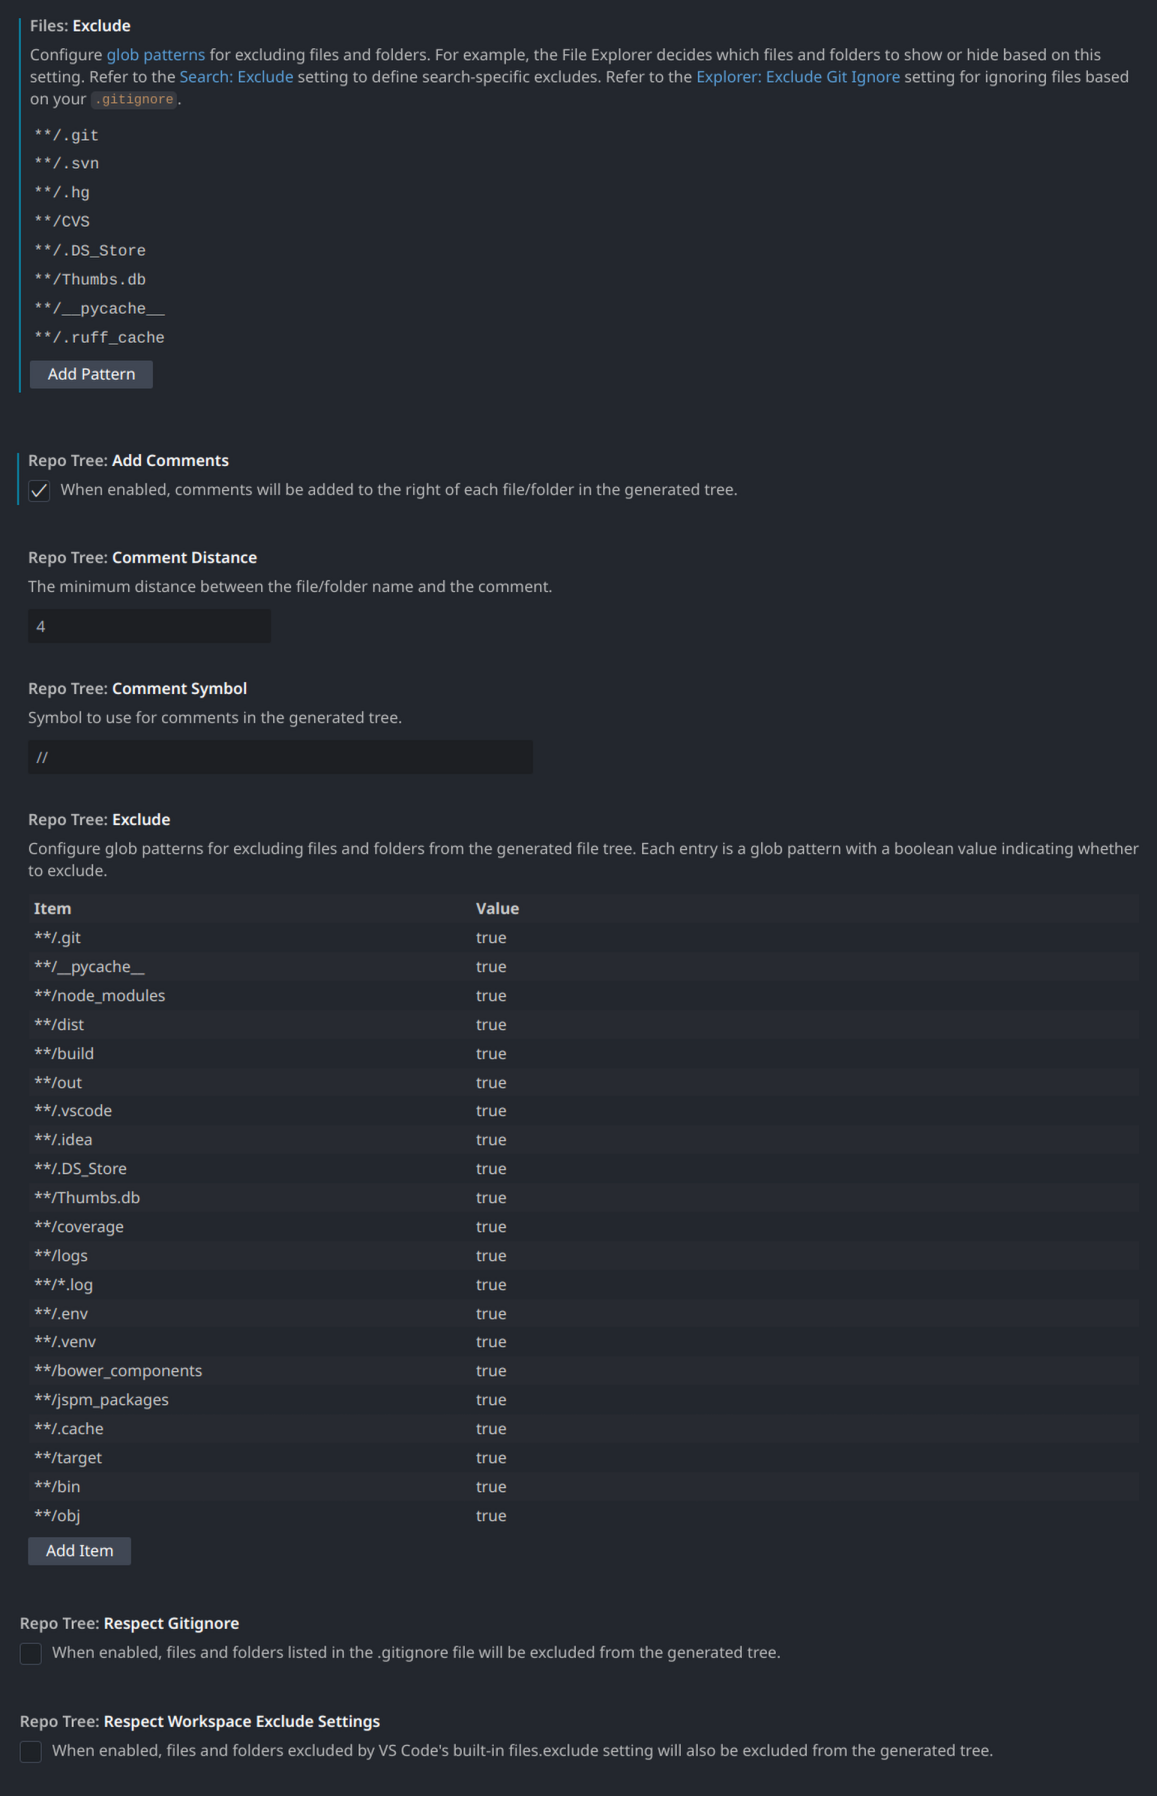
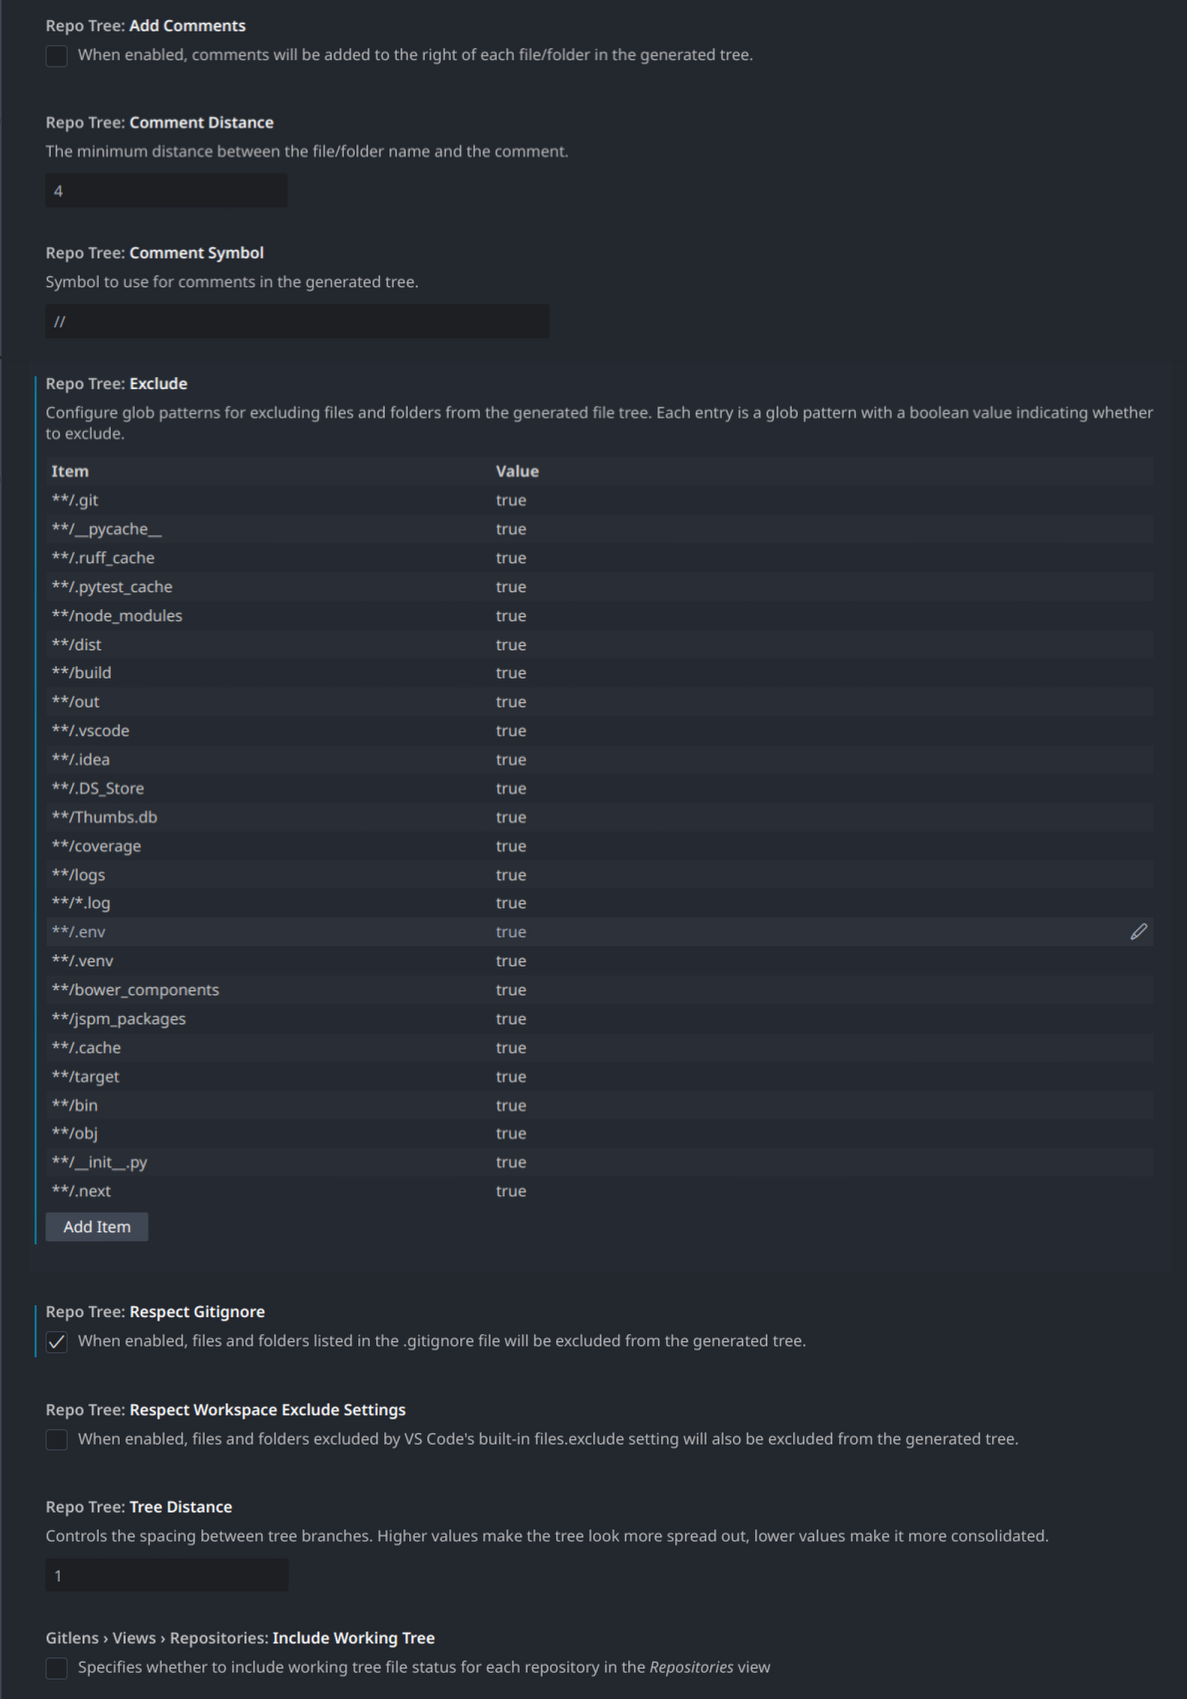
Update README.md to include customizable tree branch spacing feature and adjust instructions for tree spacing settings. Update screenshot.png to reflect the latest UI changes.

diff --git a/README.md b/README.md
@@ -25,6 +25,7 @@
 - Respect VS Code's built-in exclude settings
 - Comprehensive default exclusion patterns
 - Adjustable comment spacing for readability
+- Customizable tree branch spacing for better visualization
 
 ### Extension Settings
 
@@ -68,6 +69,7 @@
 3. Select `RepoTree: Generate to Tree` from the context menu
 4. A new tab will open with the tree visualization
 5. (Optional) Click the `icon off/on` button to toggle file icons
+6. (Optional) Adjust the tree spacing in settings with `RepoTree: Tree Distance` to control how spread out the tree appears
 
 <div align="center">
    <h2>🔍 Excluding Files and Folders</h2>
